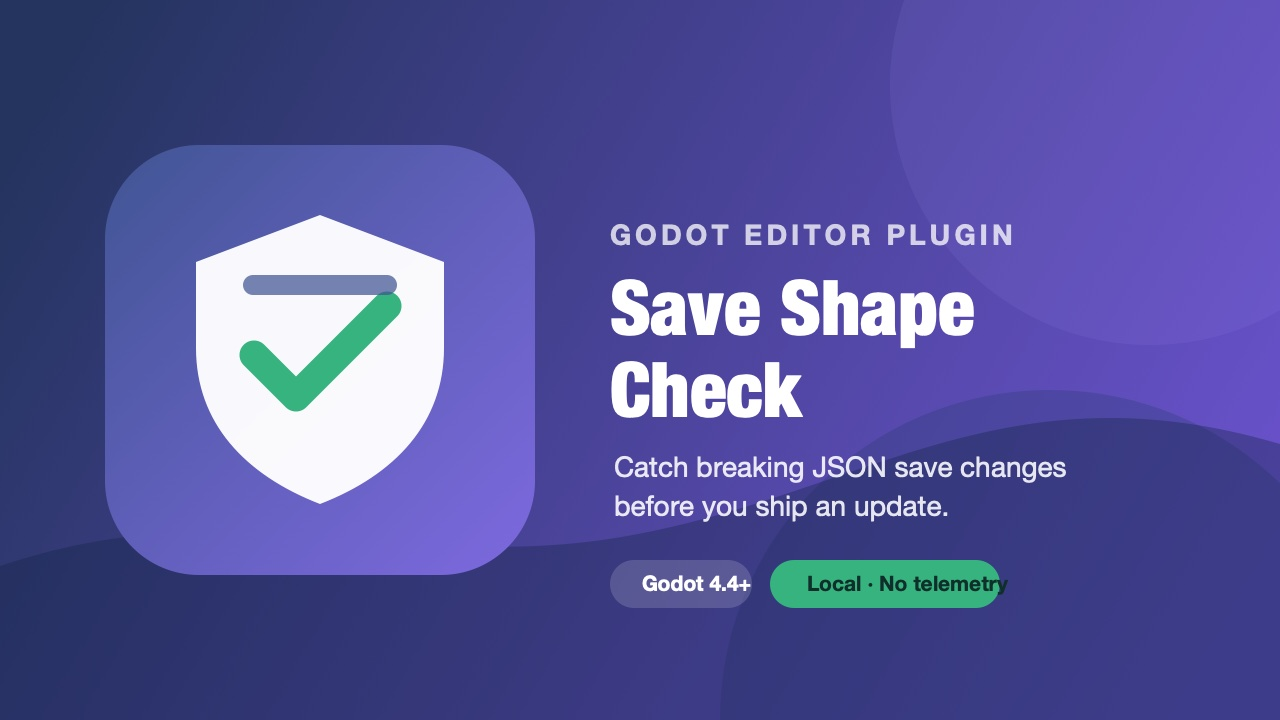
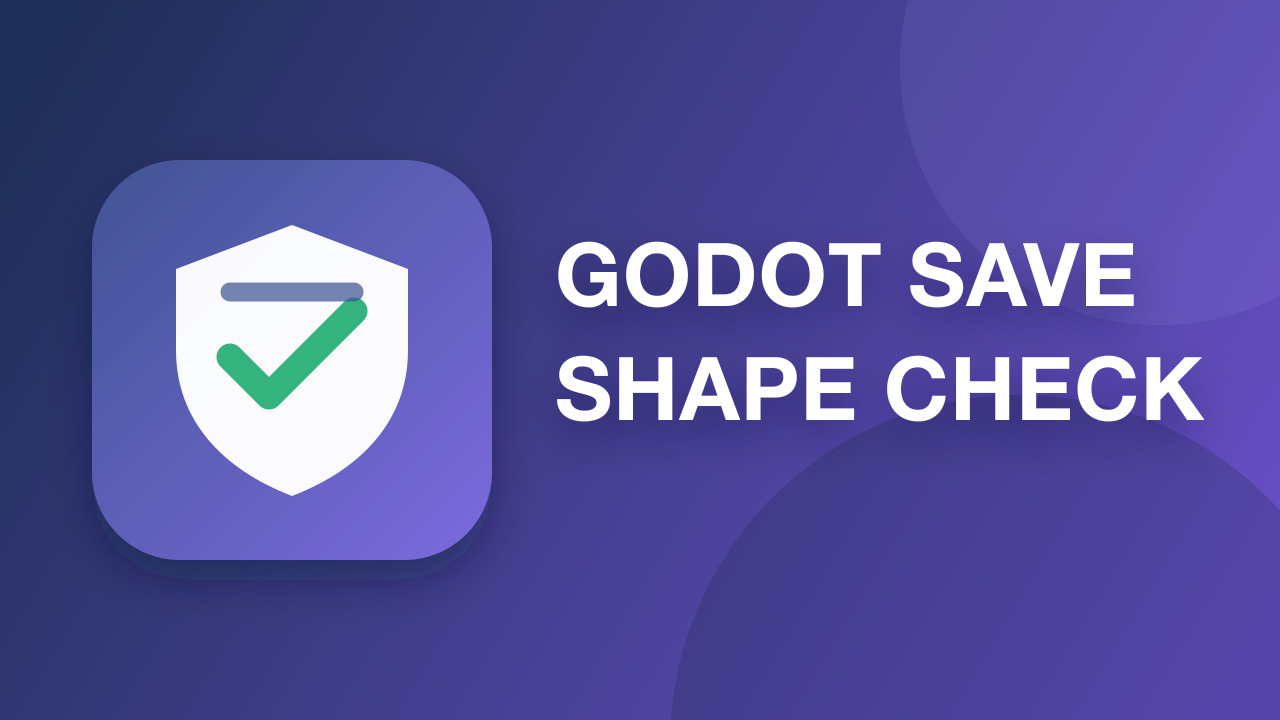
Simplify Asset Store thumbnail

Changed region(s): [[0.0938, 0.1833, 1.0, 1.0], [0.0625, 0.275, 0.0938, 0.7333], [0.1875, 0.6417, 0.2188, 0.6722]]

diff --git a/docs/ASSET_STORE_SUBMISSION.md b/docs/ASSET_STORE_SUBMISSION.md
@@ -32,7 +32,7 @@ Independent community tool; not affiliated with or endorsed by the Godot Foundat
 
 ## AI usage disclosure
 
-Code and listing text used AI assistance. Verified with 4 Python tests, 6 headless GDScript tests, an end-to-end dock test, archive validation, and Godot editor startup on 4.4.1 and 4.7.2.
+Code, listing text, and the original programmatic SVG thumbnail used AI assistance. The thumbnail was not generated by an image model; it was rendered deterministically from the repository SVG. The plugin was verified with 4 Python tests, 6 headless GDScript tests, an end-to-end dock test, archive validation, and Godot editor startup on 4.4.1 and 4.7.2.
 
 ## Review checklist
 
@@ -41,6 +41,7 @@ Code and listing text used AI assistance. Verified with 4 Python tests, 6 headle
 - [x] Archive contains only `addons/save_shape_check/`.
 - [x] Source repository has a root MIT license and `.gitignore`.
 - [x] Store thumbnail is a 1280×720 JPEG (16:9) below the 600 KB limit.
+- [x] Thumbnail revision keeps only the large asset name and plugin icon so both remain readable at small sizes.
 - [x] English name and description use full sentences.
 - [x] AI assistance is disclosed.
 - [x] No pop-up or in-editor advertisement for the paid version.
